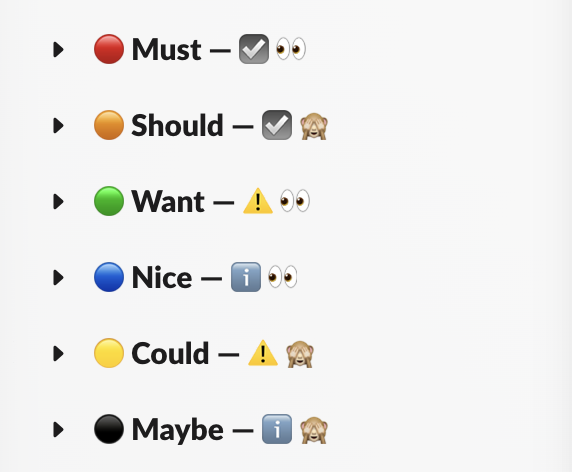
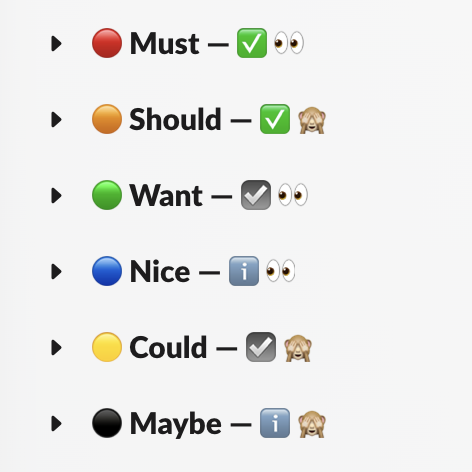
Update thoughts about slack as an inbox (in progress)

diff --git a/content/thoughts/slack-inbox/index.md b/content/thoughts/slack-inbox/index.md
@@ -62,22 +62,64 @@ This is how I setup my **Slack** channels *sections* to make them behave more li
 
 ## 🗂 Organise for fast processing {#sections}
 
-* [ ] TODO: Explain the new sections format emoji 
+In practice, the most granular unit you can manage your “unreads” in Slack is the *channel*, not the *message*.
 
-> In practice, the most granular unit you can manage your “unreads” in Slack is the *channel*, not the *message*.
-> >
-> Depending on how far back I am with the backlog of ~~messages~~ channels  to read, I'm more flexible to decide at what section to stop and “mark all as read”
+Depending on how far back I am with the backlog of ~~messages~~ channels  to read, I'm more flexible to decide at what section to stop and “mark all as read”
 
-As for which sections to use, I’ve ended up with a MoSCoW-inspired list where I essentially answer the question for each channel:
+As for which sections to use, I’ve ended up with a MoSCoW-inspired list where I essentially answer the following questions for each channel:
 
 * How directly related to my work/role is it?
-    - ☑ Yes; ⚠ Kinda; ℹ Not really
+    - ✅ Yes, very
+    - ☑ Meh, kinda
+    - ℹ Not really
 * Am I keen on reading/seeing new messages on it?
-    -  👀 Yes; 🙈 Nope
+    - 👀 Yes
+    - 🙈 Nope
 
-This is now the most battle tested setup I have stayed with for many months. Most past setups broke down on the “coming back from holidays” huge backlog of stuff to read. This one lets me manage my time/energy more effectively and use the “mark all as read” more often, once the core ones are cleared.
+The decision matrix for where to save each channel then becomes something like this:
+
+| Directly related to my role? | Am I keen on reading it? | ➔ Section |
+| ---------------------------- | ------------------------ | --------- |
+| ✅ Yes                        | 👀 Yes                    | 🔴 **Must** |
+| ✅ Yes                        | 🙈 Nope                   | 🟠 **Should** |
+| ☑ Meh                        | 👀 Yes                    | 🟢 **Want** |
+| ☑ Meh                        | 🙈 Nope                   | 🟡 **Could** |
+| ℹ Nope                       | 👀 Yes                    | 🔵 **Nice** |
+| ℹ Nope                       | 🙈 Nope                   | ⚫ **Maybe** |
+
+In practice, the order of those sections in Slack changed a little bit over time and now follow what is roughly two sets of “traffic lights”: 🚥
+
+* 🔴 **Must**, 🟠 **Should**, 🟢 **Want** — Allways read, and read regularly
+    - *(if on a very tight time crunch, “Want” might be skipped)*
+* 🔵 **Nice**, 🟡 **Could**, ⚫ **Maybe** — Read sproradically, depending on time and energy
+    - *(good candidates for the context menu action “Manage” ➤ “Mark all as read”)*
+
+Putting it all together:
 
 ![Slack sidebar view of sections: Must, Should, Want, Nice, Could, Maybe](slack-section-list.png)
+
+This is now the most battle tested setup I have stayed with for many months. Most past setups broke down on the “coming back from holidays” huge backlog of stuff to read.
+
+This setup lets me manage my time/energy more effectively and use the “mark all as read” more often, once the core channels are cleared.
+
+## 📨 Processing inboxes {#processing}
+
+With this, my daily process becomes, at specific times during the day:
+
+1. Deal with **Direct messages**
+2. Check for **Threads** updates
+3. Process the updated **Channels** in the first section 🔴 **Must**
+4. Continue to the second section 🟠 **Should**
+5. If time permitting, continue going down to the 🟢 **Want** section
+
+When I have some more relaxed time, usually at the end of the day:
+
+6. Skim and cherry-pick from the remaining sactions channels some messages that spark my curiosity
+7. `Shift-Esc` to “mark all as read” and have an clean slate for next day
+
+| Tip |
+|-----|
+| You can take advantage of the **Unread messages”** sidebar item to speed up this process. See the [Tips and tricks](#sidebar-unread-messages) section below. |
 
 ## 🚧 Full setup {#setup}
 
@@ -107,35 +149,25 @@ The sidebar consists of the following sections, in this order:
     * *Collapsed* most of the time
     * Easy access to apps I use on occasion but not so often that I remember their name
 
-## 📨 Processing inboxes {#processing}
-
-* [ ] TODO: Update according to the new sections format
-
-With this, my daily process becomes, at specific times during the day:
-
-1. Check for **Threads** updates
-2. Deal with **Direct messages**
-3. Process the updated **Channels**
-
-When I have some more relaxed time, usually at the end of the day:
-
-4. Cherry-pick from the **Someday** channels some that spark my curiosity
-5. `Shift-Esc` to “mark all as read” and have an clean slate for next day
-
 ## ℹ Tips and tricks {#tips}
 
-With this, channels and conversations disappeared from the sidebar once we read them. There are few options to navigate around and finding previous channels or conversations:
+### Navigation alternatives
 
-* Shortcut CMD-K to find and jump to a specific channel
+With this approach, channels and conversations disappear from the sidebar once we read them. There are few options to navigate around and finding previous channels or conversations:
 
+* Shortcut `CMD-K` to find and jump to a specific channel
 * History 🕒 view to go back to recent chats and last visited channels
+* **DMs** view on the navigation bar to quickly get back to a group conversation
+* **Threads** view, to see updates on conversations where I choose to [Get notified about new replies](https://slack.com/help/articles/115000769927-Use-threads-to-organize-discussions-#manage-thread-notifications)
 
-* Threads view, to see updates on conversations I choose to [Get notified about new replies](https://slack.com/help/articles/115000769927-Use-threads-to-organize-discussions-#manage-thread-notifications)
+### Sidebar “Unread messages”
 
-Also, to keep usage of the sidebar **Unread messages** aligned with this concept, set it to:
+You can take advantage of the [sidebar **Unread messages**](https://slack.com/intl/en-gb/help/articles/212596808-Adjust-your-sidebar-preferences#customise-the-top-of-your-sidebar) to process channels and messages in line with the sections concept shown above:
 
-* Display only the **Channels** section
-* Sorted from newest to oldest
+* Choose “Sorted like your sidebar”
+* Display only the 🔴 **Must** section
+* Once cleared, you can easily **Jump to the 🟠 **Should** section**
+  * … and so forth, until all sections are cleared one after the other
 
 ## ❓ Questions {#questions}
 
